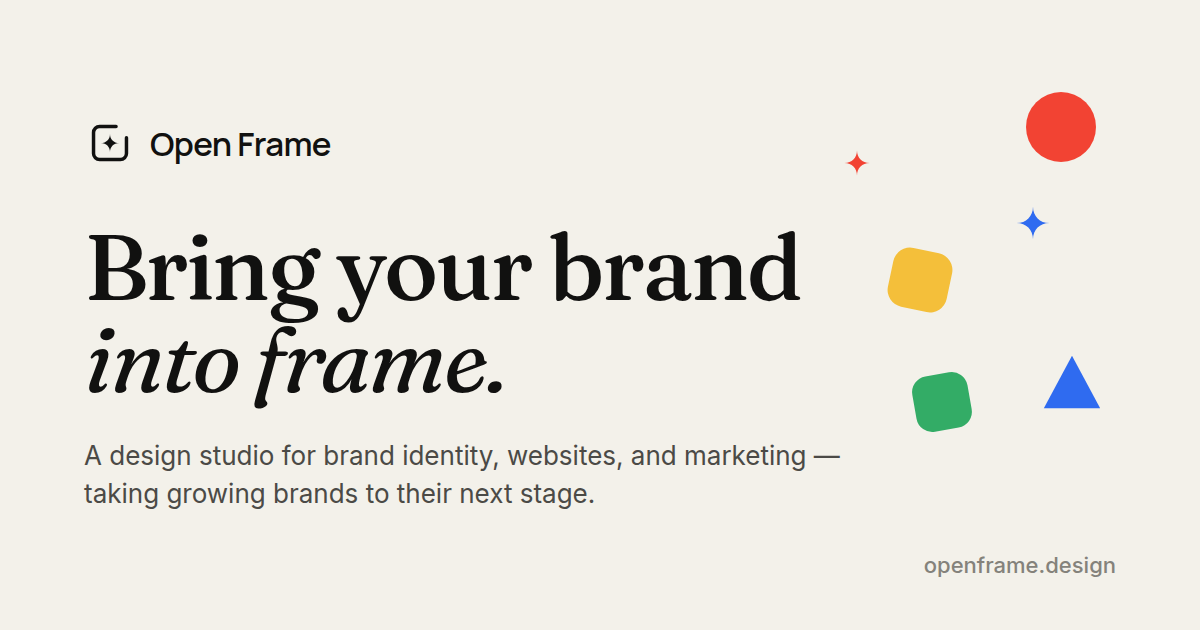
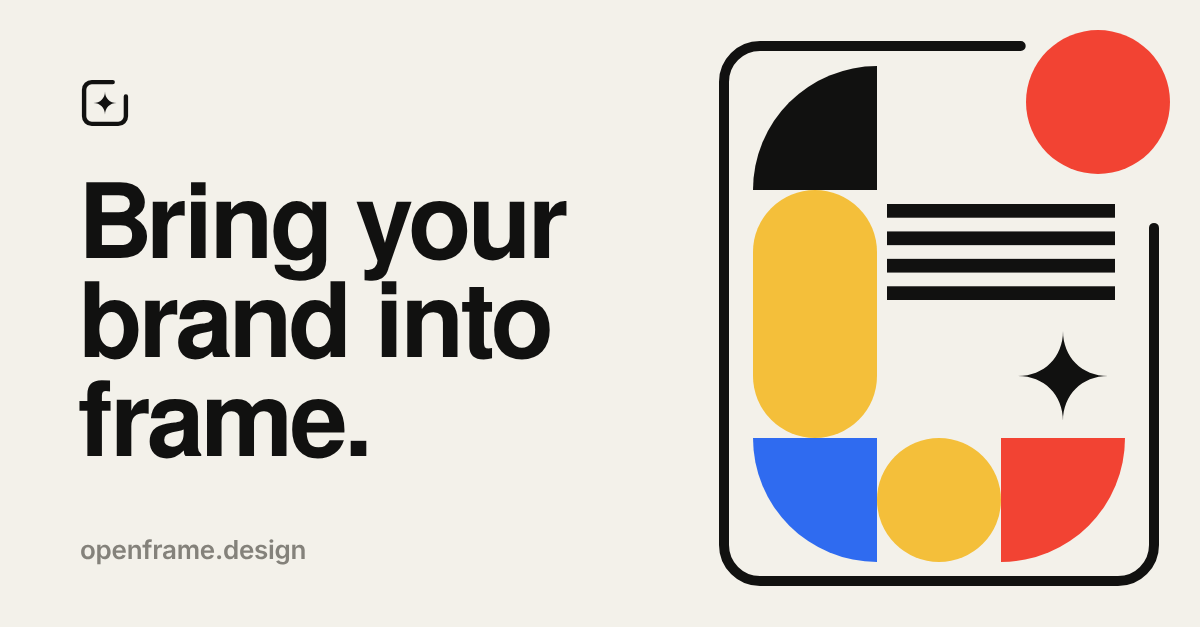
New link preview card: shorter, Helvetica, art plate (#130)
Claude-Session: https://claude.ai/code/session_01Pii793DBuAL2vNqzkzicfa

diff --git a/wellness-in-the-woods.html b/wellness-in-the-woods.html
@@ -48,16 +48,16 @@
 <meta property="og:description" content="A full brand overhaul that replaced a fragmented system with one scalable design system, reconnecting a free, 24/7 mental-health nonprofit to its mission. $1M in grants, 844% more fundraiser views.">
 <meta property="og:image" content="https://openframe.design/og-image.png">
 <meta property="og:image:width" content="1200">
-<meta property="og:image:height" content="630">
+<meta property="og:image:height" content="627">
 <meta property="og:image:type" content="image/png">
-<meta property="og:image:alt" content="Open Frame — bring your brand into frame.">
+<meta property="og:image:alt" content="Open Frame: Bring your brand into frame.">
 
 <!-- Twitter / X -->
 <meta name="twitter:card" content="summary_large_image">
 <meta name="twitter:title" content="Wellness in the Woods — Nonprofit Design System | Open Frame">
 <meta name="twitter:description" content="A full brand overhaul that replaced a fragmented system with one scalable design system, reconnecting a free, 24/7 mental-health nonprofit to its mission. $1M in grants, 844% more fundraiser views.">
 <meta name="twitter:image" content="https://openframe.design/og-image.png">
-<meta name="twitter:image:alt" content="Open Frame — bring your brand into frame.">
+<meta name="twitter:image:alt" content="Open Frame: Bring your brand into frame.">
 
 <link rel="preconnect" href="https://fonts.googleapis.com">
 <link rel="preconnect" href="https://fonts.gstatic.com" crossorigin>

diff --git a/needlework-guild-of-mn.html b/needlework-guild-of-mn.html
@@ -48,16 +48,16 @@
 <meta property="og:description" content="A new identity, a token-based design system and 43 rebuilt pages for a Minnesota needlework guild founded in 1972, built so volunteers can keep it up.">
 <meta property="og:image" content="https://openframe.design/og-image.png">
 <meta property="og:image:width" content="1200">
-<meta property="og:image:height" content="630">
+<meta property="og:image:height" content="627">
 <meta property="og:image:type" content="image/png">
-<meta property="og:image:alt" content="Open Frame — bring your brand into frame.">
+<meta property="og:image:alt" content="Open Frame: Bring your brand into frame.">
 
 <!-- Twitter / X -->
 <meta name="twitter:card" content="summary_large_image">
 <meta name="twitter:title" content="Needlework Guild of MN — Brand &amp; Web Design | Open Frame">
 <meta name="twitter:description" content="A new identity, a token-based design system and 43 rebuilt pages for a Minnesota needlework guild founded in 1972, built so volunteers can keep it up.">
 <meta name="twitter:image" content="https://openframe.design/og-image.png">
-<meta name="twitter:image:alt" content="Open Frame — bring your brand into frame.">
+<meta name="twitter:image:alt" content="Open Frame: Bring your brand into frame.">
 
 <link rel="preconnect" href="https://fonts.googleapis.com">
 <link rel="preconnect" href="https://fonts.gstatic.com" crossorigin>

diff --git a/pricing.html b/pricing.html
@@ -48,16 +48,16 @@
 <meta property="og:description" content="Design and marketing plans from $400 a month, plus fixed-price brand kits, websites, newsletters, and SEO and AI search. 10% off for 501(c)(3) nonprofits.">
 <meta property="og:image" content="https://openframe.design/og-image.png">
 <meta property="og:image:width" content="1200">
-<meta property="og:image:height" content="630">
+<meta property="og:image:height" content="627">
 <meta property="og:image:type" content="image/png">
-<meta property="og:image:alt" content="Open Frame — bring your brand into frame.">
+<meta property="og:image:alt" content="Open Frame: Bring your brand into frame.">
 
 <!-- Twitter / X -->
 <meta name="twitter:card" content="summary_large_image">
 <meta name="twitter:title" content="Pricing — Design and Marketing Plans | Open Frame">
 <meta name="twitter:description" content="Design and marketing plans from $400 a month, plus fixed-price brand kits, websites, newsletters, and SEO and AI search. 10% off for 501(c)(3) nonprofits.">
 <meta name="twitter:image" content="https://openframe.design/og-image.png">
-<meta name="twitter:image:alt" content="Open Frame — bring your brand into frame.">
+<meta name="twitter:image:alt" content="Open Frame: Bring your brand into frame.">
 
 <link rel="preconnect" href="https://fonts.googleapis.com">
 <link rel="preconnect" href="https://fonts.gstatic.com" crossorigin>

diff --git a/services.html b/services.html
@@ -48,16 +48,16 @@
 <meta property="og:description" content="Brand identity, websites, marketing and growth support for mission-driven organizations. How we work together, typical timelines and recent projects.">
 <meta property="og:image" content="https://openframe.design/og-image.png">
 <meta property="og:image:width" content="1200">
-<meta property="og:image:height" content="630">
+<meta property="og:image:height" content="627">
 <meta property="og:image:type" content="image/png">
-<meta property="og:image:alt" content="Open Frame — bring your brand into frame.">
+<meta property="og:image:alt" content="Open Frame: Bring your brand into frame.">
 
 <!-- Twitter / X -->
 <meta name="twitter:card" content="summary_large_image">
 <meta name="twitter:title" content="Services — Brand, Web and Marketing Design | Open Frame">
 <meta name="twitter:description" content="Brand identity, websites, marketing and growth support for mission-driven organizations. How we work together, typical timelines and recent projects.">
 <meta name="twitter:image" content="https://openframe.design/og-image.png">
-<meta name="twitter:image:alt" content="Open Frame — bring your brand into frame.">
+<meta name="twitter:image:alt" content="Open Frame: Bring your brand into frame.">
 
 <link rel="preconnect" href="https://fonts.googleapis.com">
 <link rel="preconnect" href="https://fonts.gstatic.com" crossorigin>

diff --git a/about.html b/about.html
@@ -48,16 +48,16 @@
 <meta property="og:description" content="Graham Ivy is a graphic &amp; brand designer for community-focused organizations, based in Barcelona and working remotely on US Eastern time.">
 <meta property="og:image" content="https://openframe.design/og-image.png">
 <meta property="og:image:width" content="1200">
-<meta property="og:image:height" content="630">
+<meta property="og:image:height" content="627">
 <meta property="og:image:type" content="image/png">
-<meta property="og:image:alt" content="Open Frame — bring your brand into frame.">
+<meta property="og:image:alt" content="Open Frame: Bring your brand into frame.">
 
 <!-- Twitter / X -->
 <meta name="twitter:card" content="summary_large_image">
 <meta name="twitter:title" content="About Graham Ivy — Brand &amp; Product Designer | Open Frame">
 <meta name="twitter:description" content="Graham Ivy is a graphic &amp; brand designer for community-focused organizations, based in Barcelona and working remotely on US Eastern time.">
 <meta name="twitter:image" content="https://openframe.design/og-image.png">
-<meta name="twitter:image:alt" content="Open Frame — bring your brand into frame.">
+<meta name="twitter:image:alt" content="Open Frame: Bring your brand into frame.">
 
 <link rel="preconnect" href="https://fonts.googleapis.com">
 <link rel="preconnect" href="https://fonts.gstatic.com" crossorigin>

diff --git a/hmong-cultural-center.html b/hmong-cultural-center.html
@@ -48,16 +48,16 @@
 <meta property="og:description" content="A responsive redesign for a Saint Paul cultural center, so the people it serves can find classes and resources faster.">
 <meta property="og:image" content="https://openframe.design/og-image.png">
 <meta property="og:image:width" content="1200">
-<meta property="og:image:height" content="630">
+<meta property="og:image:height" content="627">
 <meta property="og:image:type" content="image/png">
-<meta property="og:image:alt" content="Open Frame — bring your brand into frame.">
+<meta property="og:image:alt" content="Open Frame: Bring your brand into frame.">
 
 <!-- Twitter / X -->
 <meta name="twitter:card" content="summary_large_image">
 <meta name="twitter:title" content="Hmong Cultural Center — Responsive Website Redesign | Open Frame">
 <meta name="twitter:description" content="A responsive redesign for a Saint Paul cultural center, so the people it serves can find classes and resources faster.">
 <meta name="twitter:image" content="https://openframe.design/og-image.png">
-<meta name="twitter:image:alt" content="Open Frame — bring your brand into frame.">
+<meta name="twitter:image:alt" content="Open Frame: Bring your brand into frame.">
 
 <link rel="preconnect" href="https://fonts.googleapis.com">
 <link rel="preconnect" href="https://fonts.gstatic.com" crossorigin>

diff --git a/contact.html b/contact.html
@@ -48,16 +48,16 @@
 <meta property="og:description" content="Start a project or book a free 30-minute call with Open Frame. Design and marketing for mission-driven organizations and brands.">
 <meta property="og:image" content="https://openframe.design/og-image.png">
 <meta property="og:image:width" content="1200">
-<meta property="og:image:height" content="630">
+<meta property="og:image:height" content="627">
 <meta property="og:image:type" content="image/png">
-<meta property="og:image:alt" content="Open Frame — bring your brand into frame.">
+<meta property="og:image:alt" content="Open Frame: Bring your brand into frame.">
 
 <!-- Twitter / X -->
 <meta name="twitter:card" content="summary_large_image">
 <meta name="twitter:title" content="Contact — Book a Free Consult | Open Frame">
 <meta name="twitter:description" content="Start a project or book a free 30-minute call with Open Frame. Design and marketing for mission-driven organizations and brands.">
 <meta name="twitter:image" content="https://openframe.design/og-image.png">
-<meta name="twitter:image:alt" content="Open Frame — bring your brand into frame.">
+<meta name="twitter:image:alt" content="Open Frame: Bring your brand into frame.">
 
 <link rel="preconnect" href="https://fonts.googleapis.com">
 <link rel="preconnect" href="https://fonts.gstatic.com" crossorigin>

diff --git a/park-n-go.html b/park-n-go.html
@@ -48,16 +48,16 @@
 <meta property="og:description" content="A mobile app that lets event-goers reserve parking before the show. UX research, UI design and a brand system.">
 <meta property="og:image" content="https://openframe.design/og-image.png">
 <meta property="og:image:width" content="1200">
-<meta property="og:image:height" content="630">
+<meta property="og:image:height" content="627">
 <meta property="og:image:type" content="image/png">
-<meta property="og:image:alt" content="Open Frame — bring your brand into frame.">
+<meta property="og:image:alt" content="Open Frame: Bring your brand into frame.">
 
 <!-- Twitter / X -->
 <meta name="twitter:card" content="summary_large_image">
 <meta name="twitter:title" content="Park n Go — Event Parking App (UX/UI Case Study) | Open Frame">
 <meta name="twitter:description" content="A mobile app that lets event-goers reserve parking before the show. UX research, UI design and a brand system.">
 <meta name="twitter:image" content="https://openframe.design/og-image.png">
-<meta name="twitter:image:alt" content="Open Frame — bring your brand into frame.">
+<meta name="twitter:image:alt" content="Open Frame: Bring your brand into frame.">
 
 <link rel="preconnect" href="https://fonts.googleapis.com">
 <link rel="preconnect" href="https://fonts.gstatic.com" crossorigin>

diff --git a/hellospoke.html b/hellospoke.html
@@ -48,16 +48,16 @@
 <meta property="og:description" content="A marketing site that explains a complex unified-communications platform clearly enough for sales to use.">
 <meta property="og:image" content="https://openframe.design/og-image.png">
 <meta property="og:image:width" content="1200">
-<meta property="og:image:height" content="630">
+<meta property="og:image:height" content="627">
 <meta property="og:image:type" content="image/png">
-<meta property="og:image:alt" content="Open Frame — bring your brand into frame.">
+<meta property="og:image:alt" content="Open Frame: Bring your brand into frame.">
 
 <!-- Twitter / X -->
 <meta name="twitter:card" content="summary_large_image">
 <meta name="twitter:title" content="HelloSpoke — Product-Marketing Website (B2B SaaS) | Open Frame">
 <meta name="twitter:description" content="A marketing site that explains a complex unified-communications platform clearly enough for sales to use.">
 <meta name="twitter:image" content="https://openframe.design/og-image.png">
-<meta name="twitter:image:alt" content="Open Frame — bring your brand into frame.">
+<meta name="twitter:image:alt" content="Open Frame: Bring your brand into frame.">
 
 <link rel="preconnect" href="https://fonts.googleapis.com">
 <link rel="preconnect" href="https://fonts.gstatic.com" crossorigin>

diff --git a/work.html b/work.html
@@ -48,16 +48,16 @@
 <meta property="og:description" content="Selected brand identity, web, product and marketing projects by Graham Ivy at Open Frame.">
 <meta property="og:image" content="https://openframe.design/og-image.png">
 <meta property="og:image:width" content="1200">
-<meta property="og:image:height" content="630">
+<meta property="og:image:height" content="627">
 <meta property="og:image:type" content="image/png">
-<meta property="og:image:alt" content="Open Frame — bring your brand into frame.">
+<meta property="og:image:alt" content="Open Frame: Bring your brand into frame.">
 
 <!-- Twitter / X -->
 <meta name="twitter:card" content="summary_large_image">
 <meta name="twitter:title" content="Work — Brand, Product &amp; Marketing Design | Open Frame">
 <meta name="twitter:description" content="Selected brand identity, web, product and marketing projects by Graham Ivy at Open Frame.">
 <meta name="twitter:image" content="https://openframe.design/og-image.png">
-<meta name="twitter:image:alt" content="Open Frame — bring your brand into frame.">
+<meta name="twitter:image:alt" content="Open Frame: Bring your brand into frame.">
 
 <link rel="preconnect" href="https://fonts.googleapis.com">
 <link rel="preconnect" href="https://fonts.gstatic.com" crossorigin>

diff --git a/index.html b/index.html
@@ -48,16 +48,16 @@
 <meta property="og:description" content="Design and marketing made easy and attainable for mission-driven organizations and brands.">
 <meta property="og:image" content="https://openframe.design/og-image.png">
 <meta property="og:image:width" content="1200">
-<meta property="og:image:height" content="630">
+<meta property="og:image:height" content="627">
 <meta property="og:image:type" content="image/png">
-<meta property="og:image:alt" content="Open Frame — bring your brand into frame.">
+<meta property="og:image:alt" content="Open Frame: Bring your brand into frame.">
 
 <!-- Twitter / X -->
 <meta name="twitter:card" content="summary_large_image">
 <meta name="twitter:title" content="Open Frame — Bring your brand into frame">
 <meta name="twitter:description" content="Design and marketing made easy and attainable for mission-driven organizations and brands.">
 <meta name="twitter:image" content="https://openframe.design/og-image.png">
-<meta name="twitter:image:alt" content="Open Frame — bring your brand into frame.">
+<meta name="twitter:image:alt" content="Open Frame: Bring your brand into frame.">
 
 <link rel="preconnect" href="https://fonts.googleapis.com">
 <link rel="preconnect" href="https://fonts.gstatic.com" crossorigin>

diff --git a/CLAUDE.md b/CLAUDE.md
@@ -59,7 +59,7 @@ Live at **https://openframe.design**.
 Recently shipped: clean path URLs + `404.html`; banner case-study heroes; big "next case study" cards; white outlined service cards; removed pointer-hand cursor (custom cursor hides native cursor everywhere on desktop); site email → **hello@openframe.design**. **Unified all functional icons to one inline Lucide sprite (`#i-*` via `<use>`)**; contact icons are square-less line icons that color on hover; the "Schedule a call" card is a whole-card link (no button).
 Case-study media: `.cs-figure`/`.cs-hero-media` reserve a min-height with a loading shimmer (cleared via the `of-imgok` class on img `load`) so images no longer collapse to a thin line then jump; images use `decoding="async"` and the page preconnects to `grahamivy.com`/`s.wordpress.com`.
 **HelloSpoke, Wellness & Needlework case studies reframed as clean device mockups** (see Editing conventions → Device mockups): tilted homepage/social heroes, `.mock` browser windows for the real page screenshots, and a tilted 3-phone VPSN scene for Wellness. This also **removed the two slow `s.wordpress.com/mshots` hero shots** (they're now local mockups). Self-hosted the HelloSpoke typography + mascot boards into the design-system row.
-Added a **favicon** (black open-frame mark on transparent — `favicon.svg` flips to a cream mark on dark browser UIs via `prefers-color-scheme`; `favicon.ico` + 16/32 PNG fallbacks stay black; `apple-touch-icon.png` is white-backed so it stays visible on the iOS home screen) and a **social share card** (`og-image.png`, 1200×630, cream background, serif "Bring your brand into frame", `openframe.design` muted in the bottom-right corner) with full **Open Graph + Twitter `summary_large_image`** meta, `canonical`, and `theme-color`, all pointing at `https://openframe.design/` — so links preview properly on iMessage/Slack/LinkedIn/X.
+Added a **favicon** (black open-frame mark on transparent — `favicon.svg` flips to a cream mark on dark browser UIs via `prefers-color-scheme`; `favicon.ico` + 16/32 PNG fallbacks stay black; `apple-touch-icon.png` is white-backed so it stays visible on the iOS home screen) and a **social share card** (`og-image.png`, 1200×627 for LinkedIn, rebuilt Nov 5 2026: cream ground, Helvetica bold "Bring your brand into frame.", the mark, `openframe.design`, and an art plate on the right (open frame with a red circle entering the open corner); builder in project files `open-frame/og-cover/`) with full **Open Graph + Twitter `summary_large_image`** meta, `canonical`, and `theme-color`, all pointing at `https://openframe.design/` — so links preview properly on iMessage/Slack/LinkedIn/X.
 **SEO:** added **JSON-LD structured data** (`Organization`/`ProfessionalService` + `Person` Graham Ivy + `WebSite`, with `sameAs` → LinkedIn) so Google understands Open Frame is a design studio — this is the main lever to stop it conflating the site with the *openFrame* open-source microscope. Also added `robots.txt`, `sitemap.xml` (home + all clean routes), a web app manifest (`site.webmanifest`) with 192/512 PNG icons, `<meta name="robots">`, author, and a keyword-rich `<title>`/description. Larger icons (`icon-192.png`/`icon-512.png`) + the manifest also help Google pick up the site favicon (it can take days–weeks to replace the default globe in search). **After deploy, submit the site in Google Search Console** (verify via the existing Spaceship DNS TXT) and submit `sitemap.xml` there to speed up indexing.
 **Park n Go + Hmong images are now self-hosted** — the 37 `grahamivy.com` figures were downloaded, the heavy embedded-raster SVGs compressed to ~2000px **WebP** (`images/png-*.webp` / `hcc-*.webp`; 86 MB of SVG → 3.9 MB of WebP), every `src` updated, and the `grahamivy.com`/`s.wordpress.com` preconnect hints removed. The site now loads **no third-party case-study images**. (Their hero/hi-fi shots already carry the tilted composition, so they only needed localizing; the Hmong "before" screenshot got a `.mock` browser frame.)
 **Brand design-system sections rebuilt** (`.bsys`): each case study shows a minimal card-style system — color swatches (chip + name + hex) and typography specimens rendered in the project's **real** typeface. Verified brand data: HelloSpoke (Navy #003A5D / Emerald #24C676 / Nunito), Park n Go (Ink #050505 / Signal Gold #FFC857 / Lexend + Poppins), Hmong (Ink / Jade #329459 / Fuchsia #FF6388 / Outfit), Wellness (Bark #57463D / Sage #949D79 / Periwinkle #5F6E9C / Cream / **Staatliches + Lato**), Needlework (**updated Sep 2026** to the shipped NGM site: Sage #5C7A52 / Sage-dk #3E5538 / Rose #B87260 / Linen #F0EAE0 / Charcoal #242424 / **Cormorant Garamond + DM Sans** — source of truth is `global-css/global.css` `:root` in the `grahamivyco/ngm-website` repo; the old indigo/cranberry + Merriweather/Open Sans system was the first draft and is gone). Those brand fonts are loaded via the Google Fonts `<link>`.
